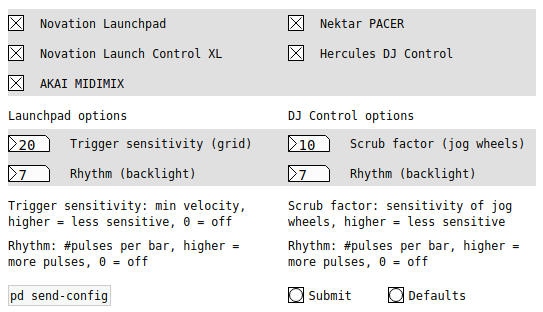
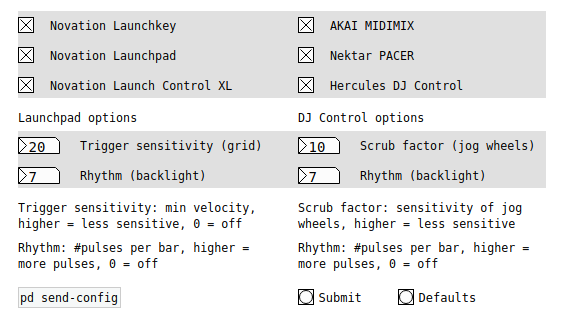
Update documentation.

diff --git a/README.md b/README.md
@@ -172,6 +172,8 @@ Raptor comes with a few ready-made MIDI map files included in the data subdirect
 
 Beyond MIDI learn, Raptor also offers special support for some widespread controllers, listed below. This typically entails some hard-wired bindings to select Raptor instances for receiving control data, as well as a custom MIDI map file. It is generally assumed that these devices are in their factory state and are connected to a *secondary* input port (usually Pd's second MIDI input port, but see the table below for the actual port numbers), so that they don't interfere with MIDI data from your primary input device on the first MIDI input, where you'd typically connect your MIDI keyboard, pad controller, etc. All drivers come with corresponding MIDI maps in the data subdirectory, which you should load using the "load map" operation described above if you want the full experience. (Otherwise most drivers only offer a few essential bindings, typically stuff that can't be mapped using MIDI learn.)
 
+#### Device Configuration
+
 For now, the special device drivers included in Raptor all work nicely together, so we have them all enabled by default. But if the bindings interfere with your own controllers or if you're worried about the overhead for devices that you don't have, you can easily turn them off using the `config` patch which you can find in Raptor's `init` subpatch. Click on the patch to open it. It contains the following dialog:
 
 <img src="doc/config.png" alt="config" style="zoom:85%;" />
@@ -184,19 +186,22 @@ Note that disabling a driver doesn't make the device go away. Only the special p
 
 Most controller implementations also provide at least a certain amount of device *feedback*, which needs a connection between the controller and Pd's corresponding MIDI *output* port, generally using the same port number as for the input. The amount of feedback varies from none or minimal (and optional) to rather extensive (but still optional). For the Launchpad devices, on the other hand, the feedback connection is mandatory, as the driver cannot function properly without it.
 
-**CAVEAT:** Depending on the platform and particular Pd version, Raptor may not always succeed in sending the MIDI data necessary to reset a device to its initial state when exiting Raptor. It is generally a good idea to close the patch before you quit Pd. If that doesn't seem to do the trick, there is a `fini` message in the main page which you can click to force device finalization before exiting Pd.
+**CAVEAT:** Depending on the platform and particular Pd version, the driver may not always succeed in sending the MIDI data necessary to reset a device to its initial state when exiting Raptor. It is generally a good idea to close the patch before you quit Pd. If that doesn't seem to do the trick, there is a `fini` message in the main page which you can click to force device finalization before exiting Pd.
 
 #### Device Overview
 
-The following table summarizes the currently supported controllers and lists their MIDI port numbers, feedback information, and the names of the accompanying MIDI map files in the data subdirectory. More details can be found in the subsections below.
+The following table summarizes the currently supported controllers and lists their MIDI port numbers, feedback capabilities, and the names of the accompanying MIDI map files in the data subdirectory. More details can be found in the subsections below.
 
 | Device                     | I/O Port #    | Feedback                   | MIDI Map          |
 | -------------------------- | ------------- | -------------------------- | ----------------- |
 | Novation Launchpad         | **3** / **4** | required, 2 separate ports | launchpad.map     |
+| Novation Launchkey         | 1* + 2        | yes (recommended)          | launchkey.map     |
 | Novation Launch Control XL | 2             | yes (optional)             | launchcontrol.map |
 | AKAI Professional MIDIMIX  | 2             | yes (optional)             | midimix.map       |
-| Nektar PACER               | 2             | no                         | pacer.map         |
+| Nektar PACER               | 2*            | no                         | pacer.map         |
 | Hercules DJ Control        | 2             | yes (recommended)          | djcontrol.map     |
+
+\* = input only
 
 #### The Built-In Patchbay
 
@@ -222,11 +227,21 @@ The [Novation Launchpad][] is quite likely the most popular grid controller for 
 
 You'll need a recent Launchpad version. The present implementation should work with all Launchpads in Novation's current lineup, which at the time of this writing encompasses the Launchpad Pro and Mini (MK3), as well as the Launchpad X. The driver checks at startup which Launchpad model(s) you have connected and prints some information in the Pd console about the devices it recognized, and also warns you about unsupported Launchpad models.
 
-A custom MIDI map is included, see *data/launchpad.map*. Please check the comments in that file to find out more about Raptor's Launchpad implementation. Also, there's a little cheat sheet to help you get familiar with the most important fader and pad assignments, see [doc/raptor7-cheatsheet.pdf][]. This will also be useful in conjunction with the Novation Launch Control XL and AKAI MIDIMIX controllers, see below, because the Launchpad driver uses basically the same layout of buttons and faders/knobs.
+A custom MIDI map is included, see *data/launchpad.map*. Please check the comments in that file to find out more about Raptor's Launchpad implementation. Also, there's a little cheat sheet to help you get familiar with the most important fader and pad assignments, see [doc/raptor7-cheatsheet.pdf][]. This will also be useful in conjunction with the Novation Launchkey, Novation Launch Control XL, and AKAI MIDIMIX controllers, see below, which use basically the same layout of buttons and faders/knobs.
 
 **IMPORTANT:** In contrast to the other controllers, this device needs to be connected to its own MIDI port, port 3 or 4, on *both* input and output, as the communication protocol is rather complicated and involves a lot of messages going back and forth between Pd and the device.
 
 Raptor reserves both ports 3 and 4 for use with the Launchpad, so that you can connect two different devices at the same time and have them work nicely together. This is necessary since the Launchpad driver needs to maintain a certain amount of state information about each device. It is possible to connect two or more devices *of the same model* to the same port, however, and have them operate in lockstep. This might actually come in handy if you have lots of spare Launchpads lying around, e.g., in different locations on stage or in the studio. But different models must *always* be connected to different ports. That's because there are some variations (or outright incompatibilities) of Novation's MIDI protocol for different models that the driver needs to accommodate. The driver will warn you at startup if it detects any such conflicts. In this case the conflicting models will have their session mode disabled, but you can still use them as standard MIDI controllers, e.g., for MIDI note and CC input.
+
+#### Novation Launchkey
+
+The [Novation Launchkey][] is Novation's keyboard controller which combines a standard MIDI keyboard with eight encoders and a reduced Launchpad-like 2x8 grid of pads. The driver requires that you connect both the first port (the "MIDI" port) of the Launchkey to Pd's first MIDI input for the keyboard input, and the second port (the "DAW" port) to Pd's second MIDI port on both input and output for the Launchpad-like functionality.
+
+The accompanying MIDI map in data/launchkey.map has bindings for both session and standalone mode, so you can also use the Launchkey as a standard MIDI keyboard with drum pads if you disable the driver in the `config` patch, or disconnect Launchkey's DAW port from Pd. In session mode, the Launchkey functions pretty much like a little Launchpad with mappable pads, drum grid, and knobs for controlling the usual four banks of Raptor controls; please check the map file for details.
+
+To these ends, the Launchkey can be switched into various different modes by pressing the Shift key together with one of the pads (Session, Drum, Volume, Pan, Send A+B); by default, the device starts up with the Session and Pan modes activated. The transport buttons also work as expected, and you can select Raptor instances and switch presets with the arrow buttons like on the Launchpad.
+
+You'll need one of the latest Launchkey devices (MK3 at the time of this writing). So far, we have only been able to test the driver with the Launchkey Mini MK3, so that device is known to work. Support for the bigger Launchkey controllers is planned, however, and if you own one of these then you should already be able to give it a go (but expect some bugs).
 
 #### Novation Launch Control XL
 
@@ -306,6 +321,7 @@ Device management is another area where Raptor still has room for improvements. 
 [QjackCtl]: https://qjackctl.sourceforge.io/
 [MidiPipe]: http://www.subtlesoft.square7.net/MidiPipe.html
 [Novation Launchpad]: https://novationmusic.com/products/launchpad-pro-mk3
+[Novation Launchkey]: https://novationmusic.com/launchkey
 [Novation Launch Control XL]: https://novationmusic.com/products/launch-control-xl
 [AKAI MIDIMIX]: https://www.akaipro.com/midimix
 [Nektar PACER]: https://nektartech.com/pacer-midi-daw-footswitch-controller/
